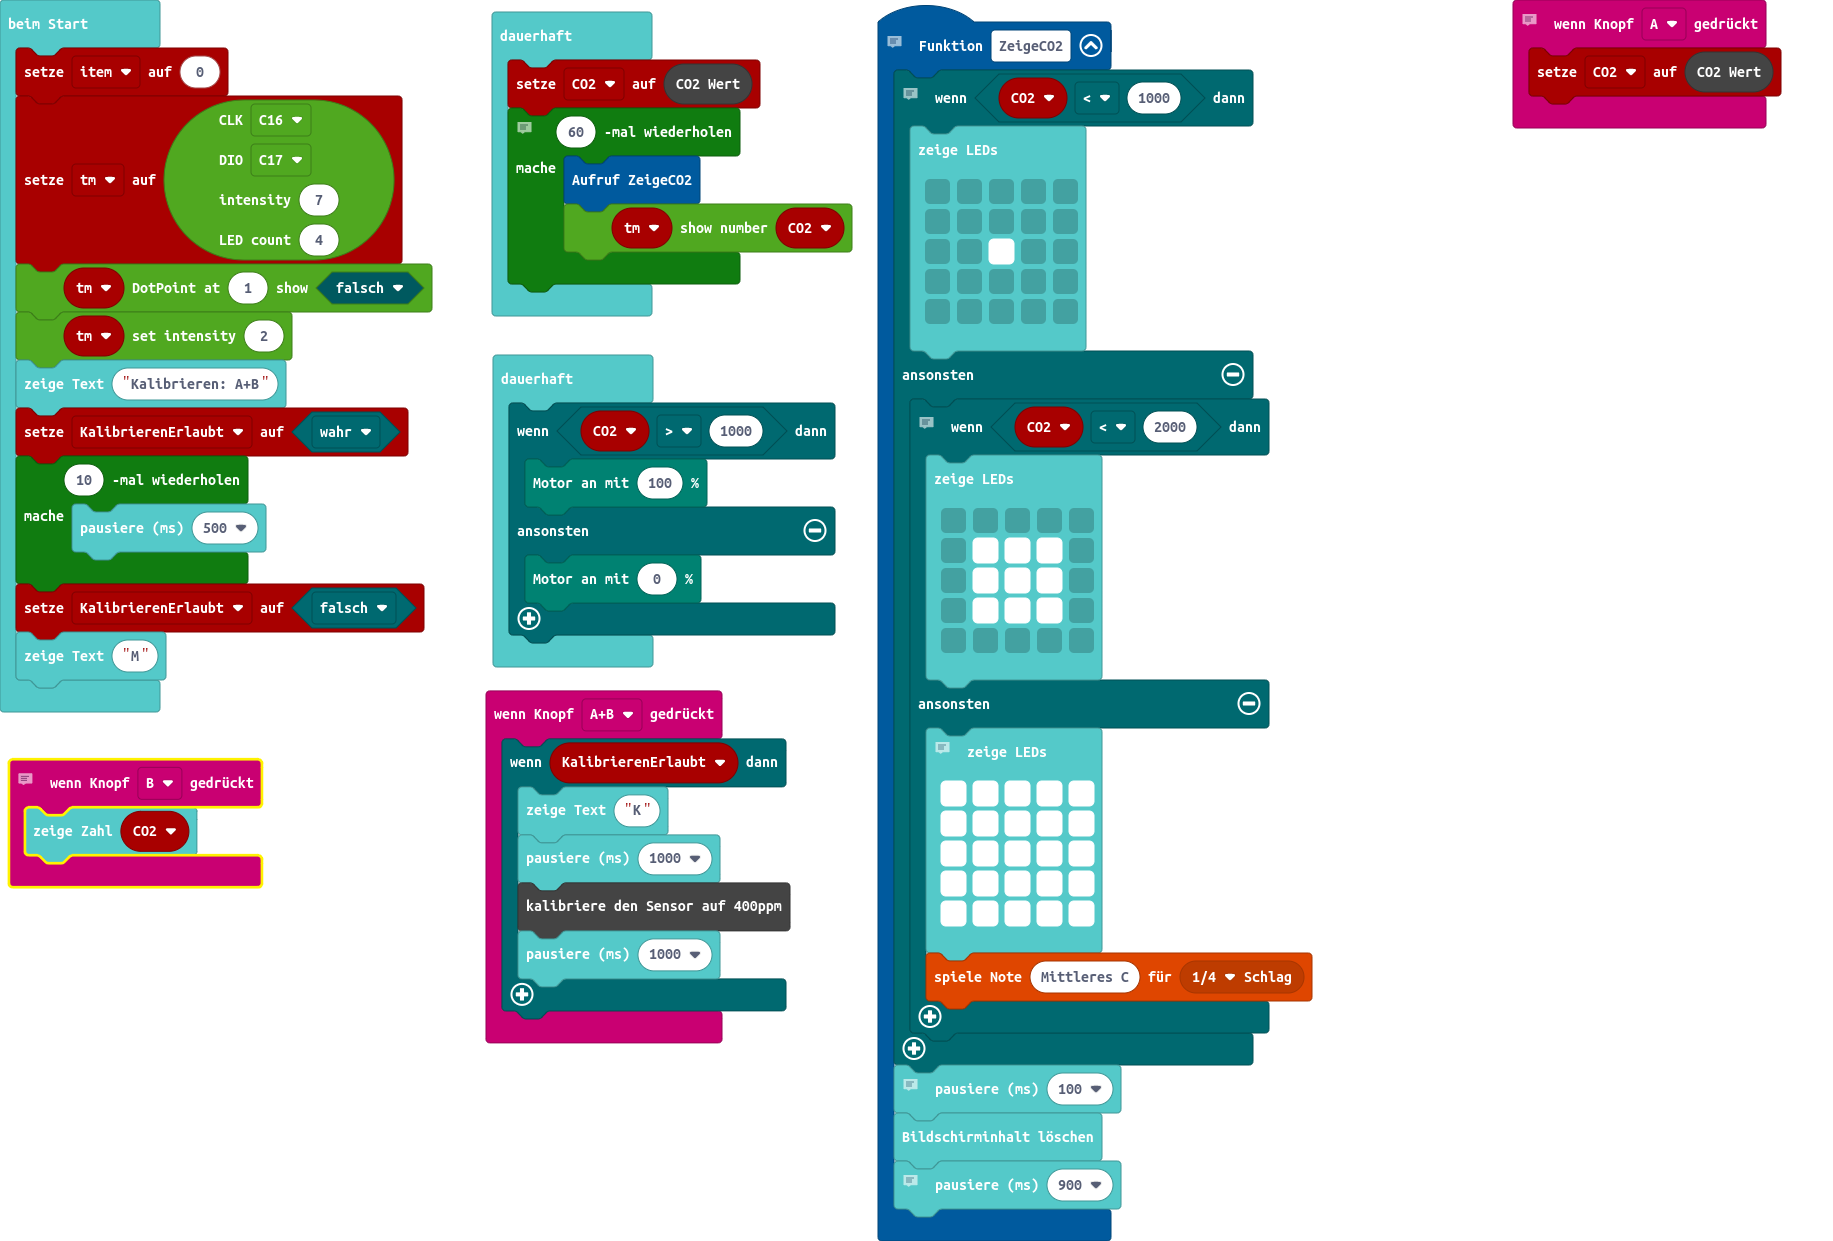
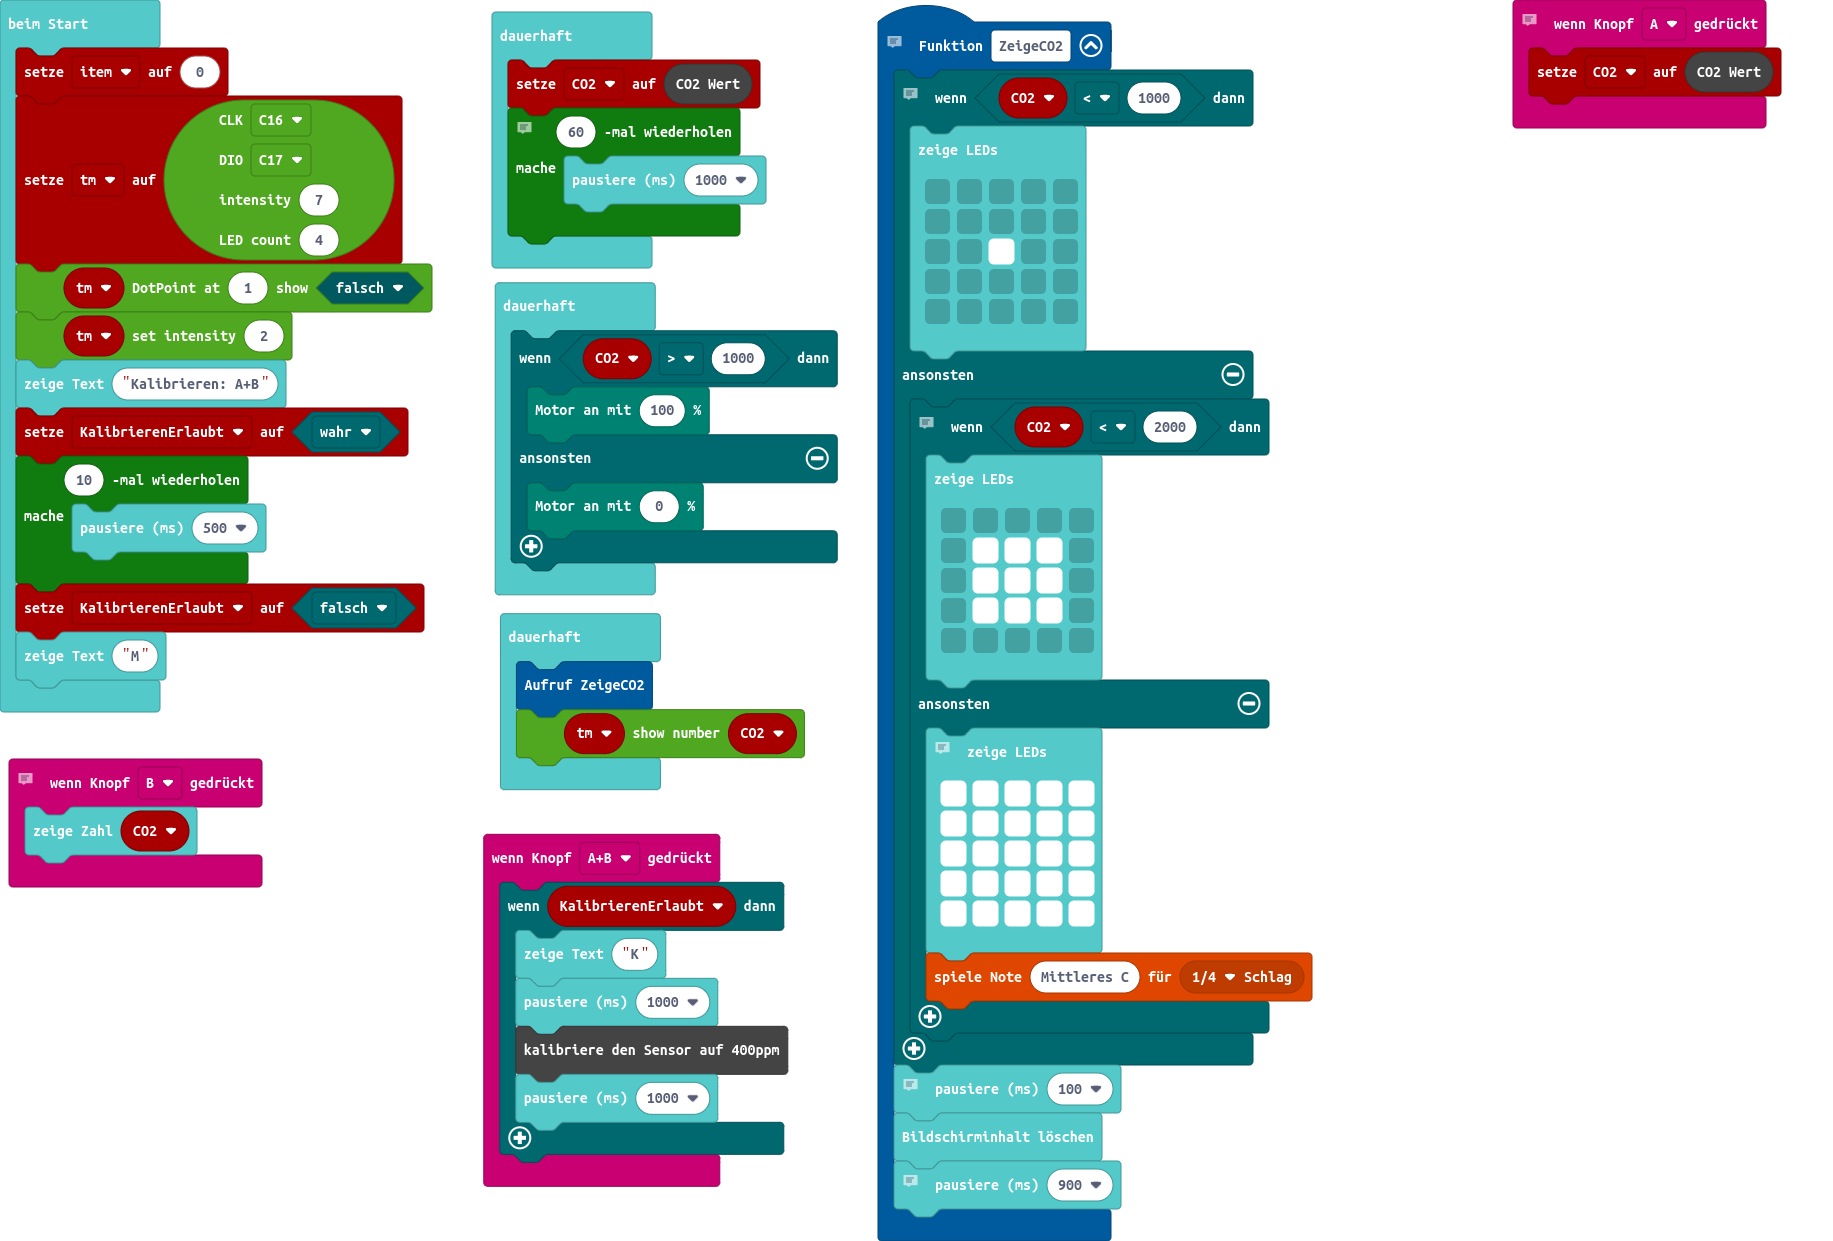
Aktualisiere main.blocks, main.ts

Changed region(s): [[0.2488, 0.1225, 0.4664, 0.9799], [0.0, 0.6124, 0.1244, 0.7349], [0.1244, 0.6124, 0.1555, 0.643]]

diff --git a/main.ts b/main.ts
@@ -75,8 +75,7 @@ basic.forever(function () {
     CO2 = SCD30.readCO2()
     // 60 mal 1sec = 1min
     for (let index = 0; index < 60; index++) {
-        ZeigeCO2()
-        tm.showNumber(CO2)
+        basic.pause(1000)
     }
 })
 basic.forever(function () {
@@ -85,4 +84,8 @@ basic.forever(function () {
     } else {
         motors.motorPower(0)
     }
+})
+basic.forever(function () {
+    ZeigeCO2()
+    tm.showNumber(CO2)
 })
